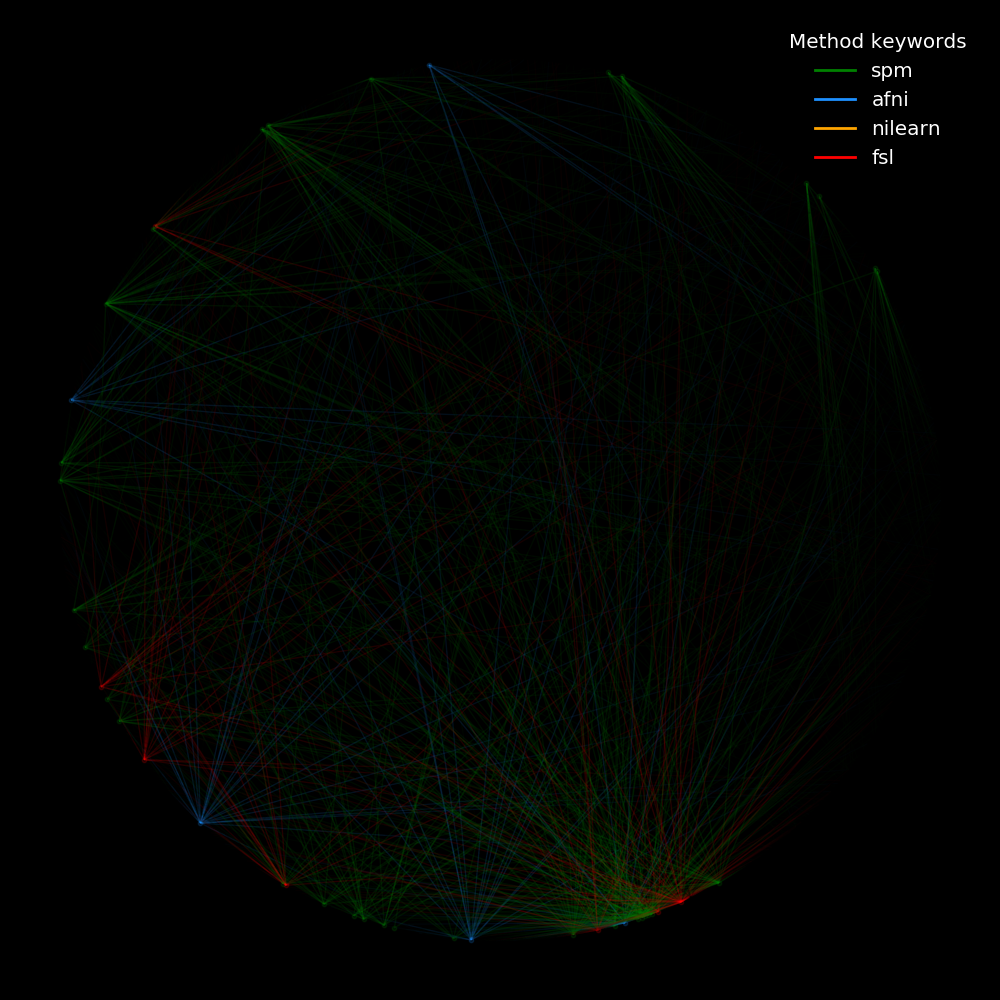
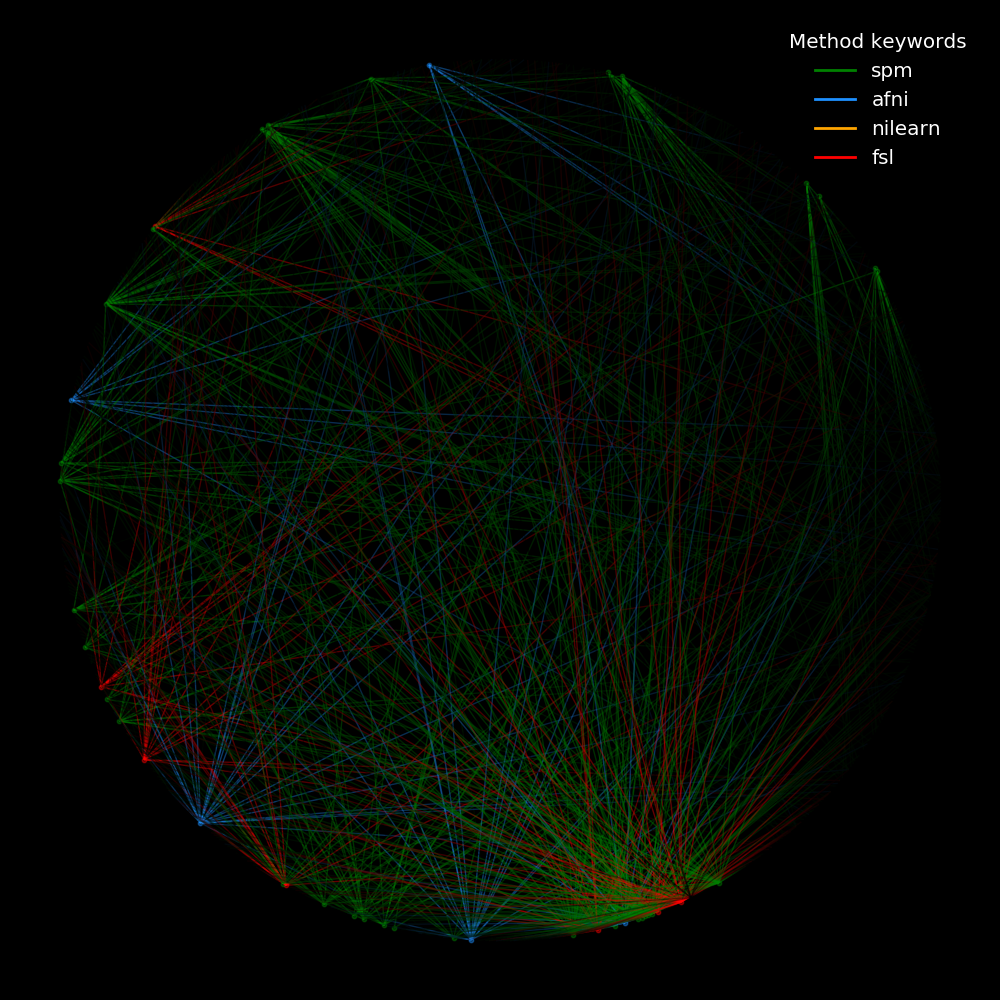
fixing image transparency

diff --git a/methnet/visualizations.py b/methnet/visualizations.py
@@ -10,7 +10,7 @@ from matplotlib.lines import Line2D
 import math
 import imageio
 
-alpha = .15
+alpha = .4
 
 # +
 def make_segments(x, y):
